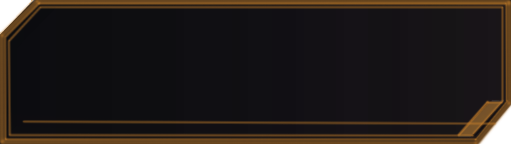
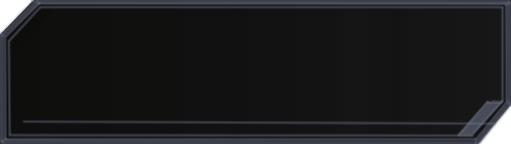
Feat: UI 및 충돌 처리 개선, 에디터 설정 최적화
FL_Level1.Scene에서 충돌 처리 관련 설정 변경:
- CollisionEnabled, CollisionPreset, ObjectType 값 수정
- bGenerateOverlapEvents를 true로 변경

RML 기반 UI 시스템 개선:
- Cutscene 및 ScoreResult 관련 UI 요소 추가 및 스타일 수정
- WeaponHUD 및 ItemInspectPanel의 UI 스타일 업데이트

에디터 설정 최적화:
- Editor.ini 및 imgui.ini에서 레이아웃 및 카메라 설정 변경
- 불필요한 설정 값 제거

코드 개선:
- Character.cpp에서 CapsuleComponent의 CollisionPreset 설정 추가
- UIManager.cpp에 ClearViewport 로직 개선

Changed region(s): [[0.0, 0.0, 1.0, 1.0]]

diff --git a/KraftonEngine/Source/Engine/UI/UIManager.cpp b/KraftonEngine/Source/Engine/UI/UIManager.cpp
@@ -1,4 +1,4 @@
-#include "UI/UIManager.h"
+#include "UI/UIManager.h"
 
 #include "Audio/AudioManager.h"
 #include "Core/Logging/Log.h"
@@ -773,6 +773,14 @@ void UUIManager::ClearViewport()
 	InputSystem::Get().SetGuiMouseCapture(false);
 	HoveredMenuButtons.clear();
 
+	if (bDispatchingRmlEvents)
+	{
+		bClearViewportAfterRmlDispatch = true;
+		return;
+	}
+
+	bClearViewportAfterRmlDispatch = false;
+
 	// 위젯을 viewport 에서만 떼고 UObject 자체는 유지. UUIManager 는 widgets 의 owner —
 	// 같은 Lua VM 안의 widgets[] 테이블이 그대로 살아있고, PIE 재시작 / TransitionToScene
 	// 후 UIManager.Init re-entry 경로가 동일 위젯을 재사용한다 (위젯 destroy 시 Lua 측
@@ -926,6 +934,11 @@ void UUIManager::ProcessInput(const FFrameContext& Frame)
 		RmlContext->ProcessMouseButtonUp(0, KeyModifierState);
 	}
 	bDispatchingRmlEvents = false;
+
+	if (bClearViewportAfterRmlDispatch)
+	{
+		ClearViewport();
+	}
 }
 
 void UUIManager::UpdateMenuHoverButtonFrames()

diff --git a/KraftonEngine/Source/Engine/GameFramework/Pawn/Character.cpp b/KraftonEngine/Source/Engine/GameFramework/Pawn/Character.cpp
@@ -5,6 +5,7 @@
 #include "Component/Input/InputComponent.h"
 #include "Component/Movement/CharacterMovementComponent.h"
 #include "Component/Primitive/SkeletalMeshComponent.h"
+#include "Core/Types/CollisionTypes.h"
 #include "Input/InputSystem.h"
 #include "Lua/LuaScriptManager.h"
 #include "Math/Rotator.h"
@@ -29,6 +30,7 @@ void ACharacter::InitDefaultComponents(const FString& SkeletalMeshFileName)
 {
 	// 1) Capsule — Root. CharacterMovement 의 UpdatedComponent 가 이걸 가리킴.
 	CapsuleComponent = AddComponent<UCapsuleComponent>();
+	CapsuleComponent->SetCollisionPreset(ECollisionPreset::Pawn);
 	SetRootComponent(CapsuleComponent);
 
 	// 2) SkeletalMesh — Capsule 의 자식.

diff --git a/KraftonEngine/Source/Engine/UI/UIManager.h b/KraftonEngine/Source/Engine/UI/UIManager.h
@@ -134,6 +134,7 @@ private:
 	Rml::Context* RmlContext = nullptr;
 	bool bRmlInitialized = false;
 	bool bDispatchingRmlEvents = false;
+	bool bClearViewportAfterRmlDispatch = false;
 	float LastViewportWidth = 0.0f;
 	float LastViewportHeight = 0.0f;
 	std::unordered_set<Rml::Element*> HoveredMenuButtons;